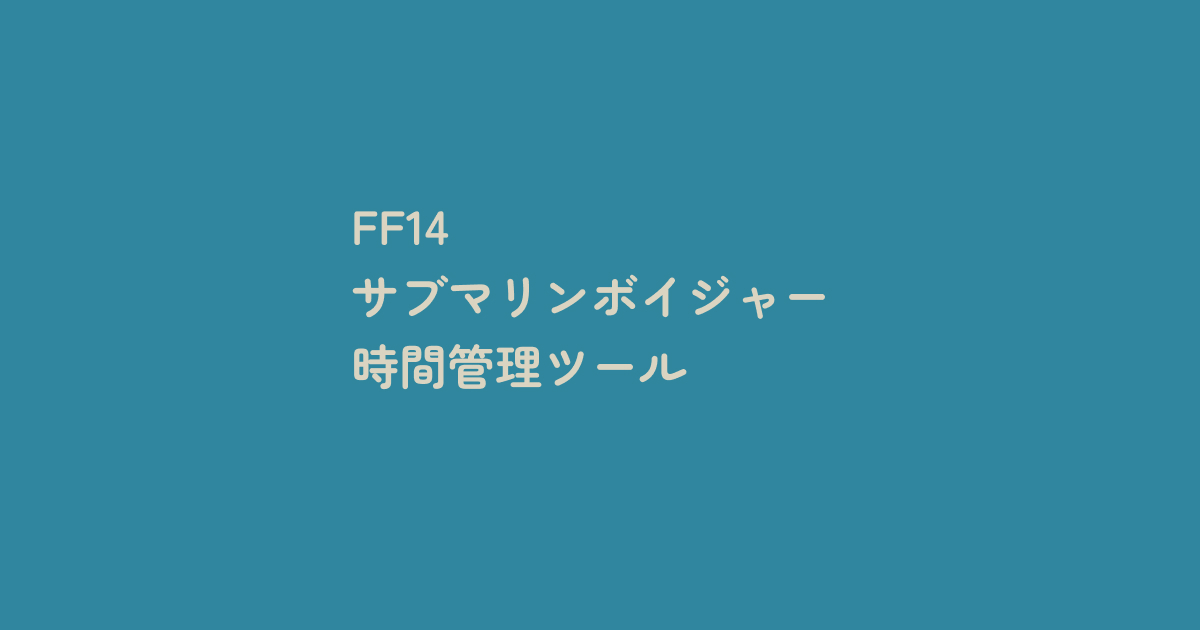
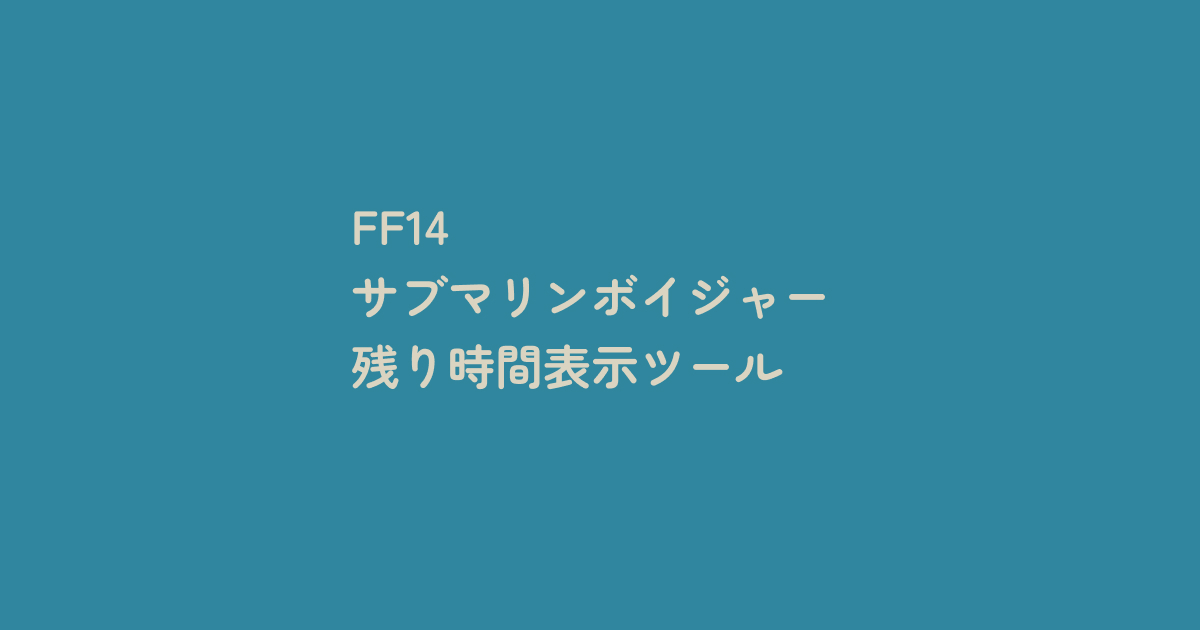
タイトル・説明文を変更

Changed region(s): [[0.2775, 0.5429, 0.6475, 0.6333]]

diff --git a/src/components/TimerSettings.jsx b/src/components/TimerSettings.jsx
@@ -130,7 +130,7 @@ const TimerSettings = () => {
 
   return (
     <Container>
-      <StyledPageTitle>FF14 サブマリンボイジャー設定画面</StyledPageTitle>
+      <StyledPageTitle>FF14 サブマリンボイジャー時間設定画面</StyledPageTitle>
       <Info>
         4隻まで登録できます。「残り時間」か「帰還予定時刻」を選択・入力して、「設定完了」を押してください。
         <br />

diff --git a/README.md b/README.md
@@ -1,4 +1,4 @@
-# FF14 サブマリンボイジャー時間管理
+# FF14 サブマリンボイジャー残り時間表示ツール
 
 https://ff14-voyager-timer.vercel.app/
 
